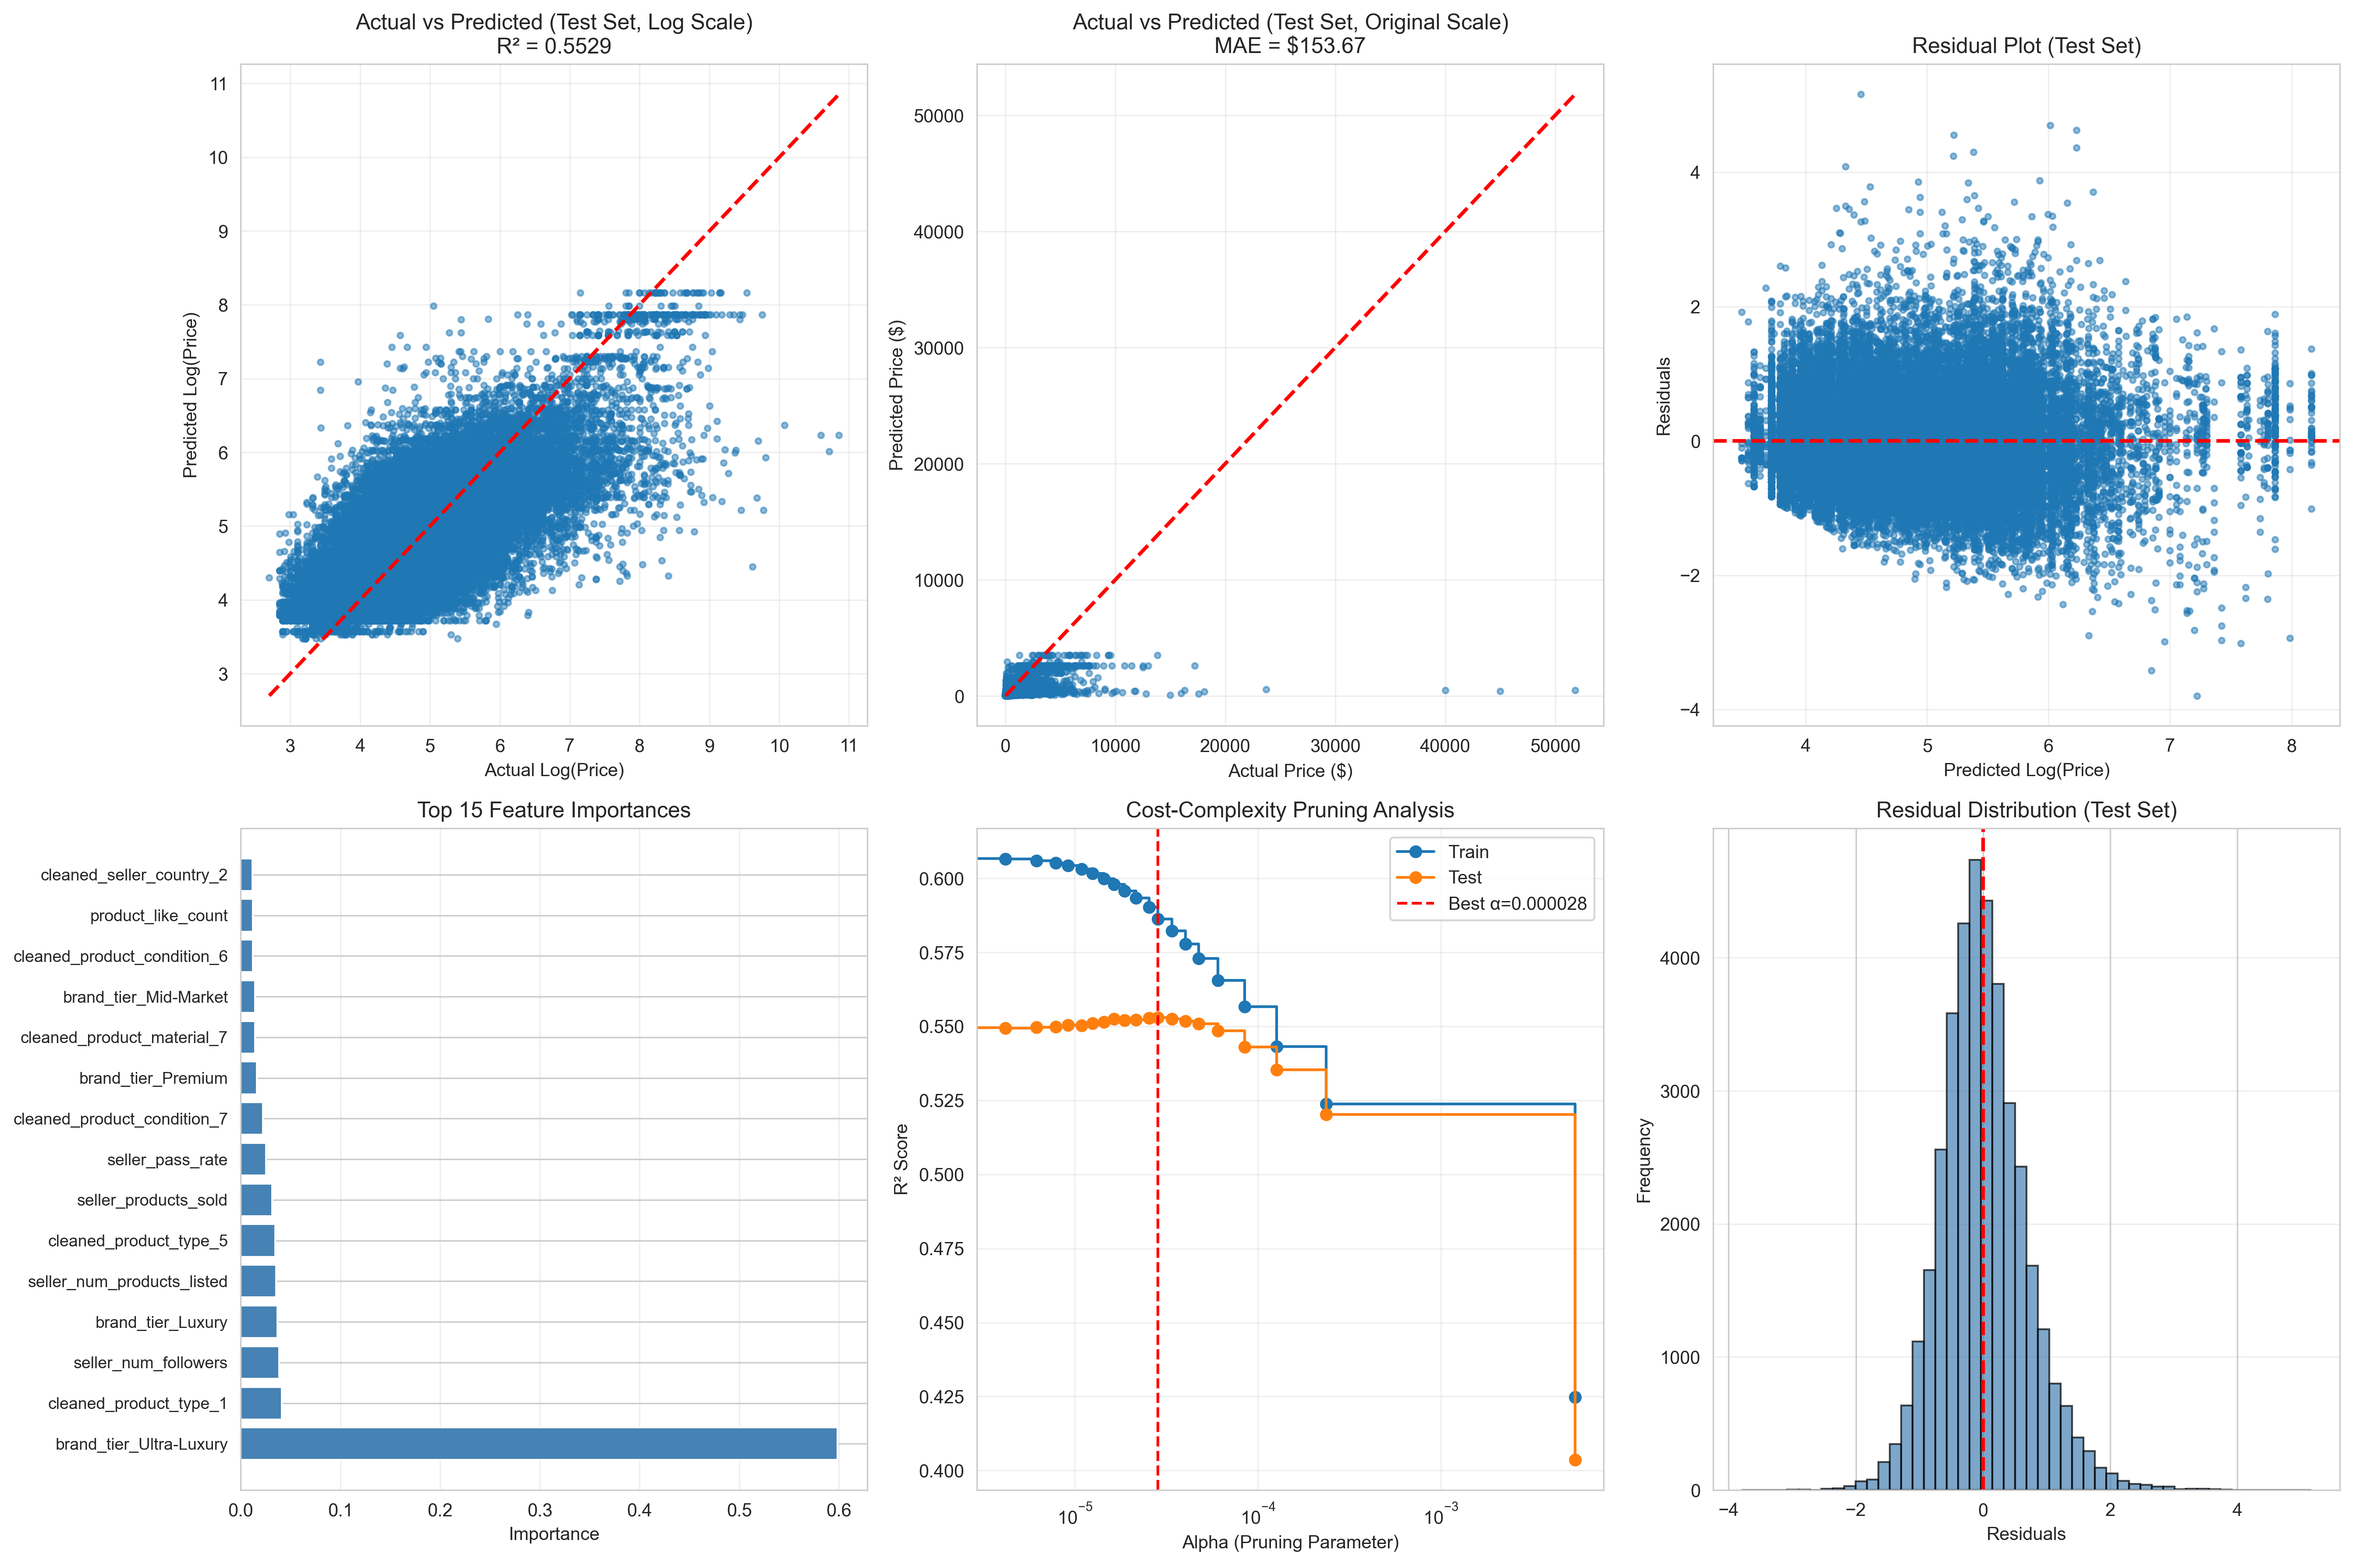
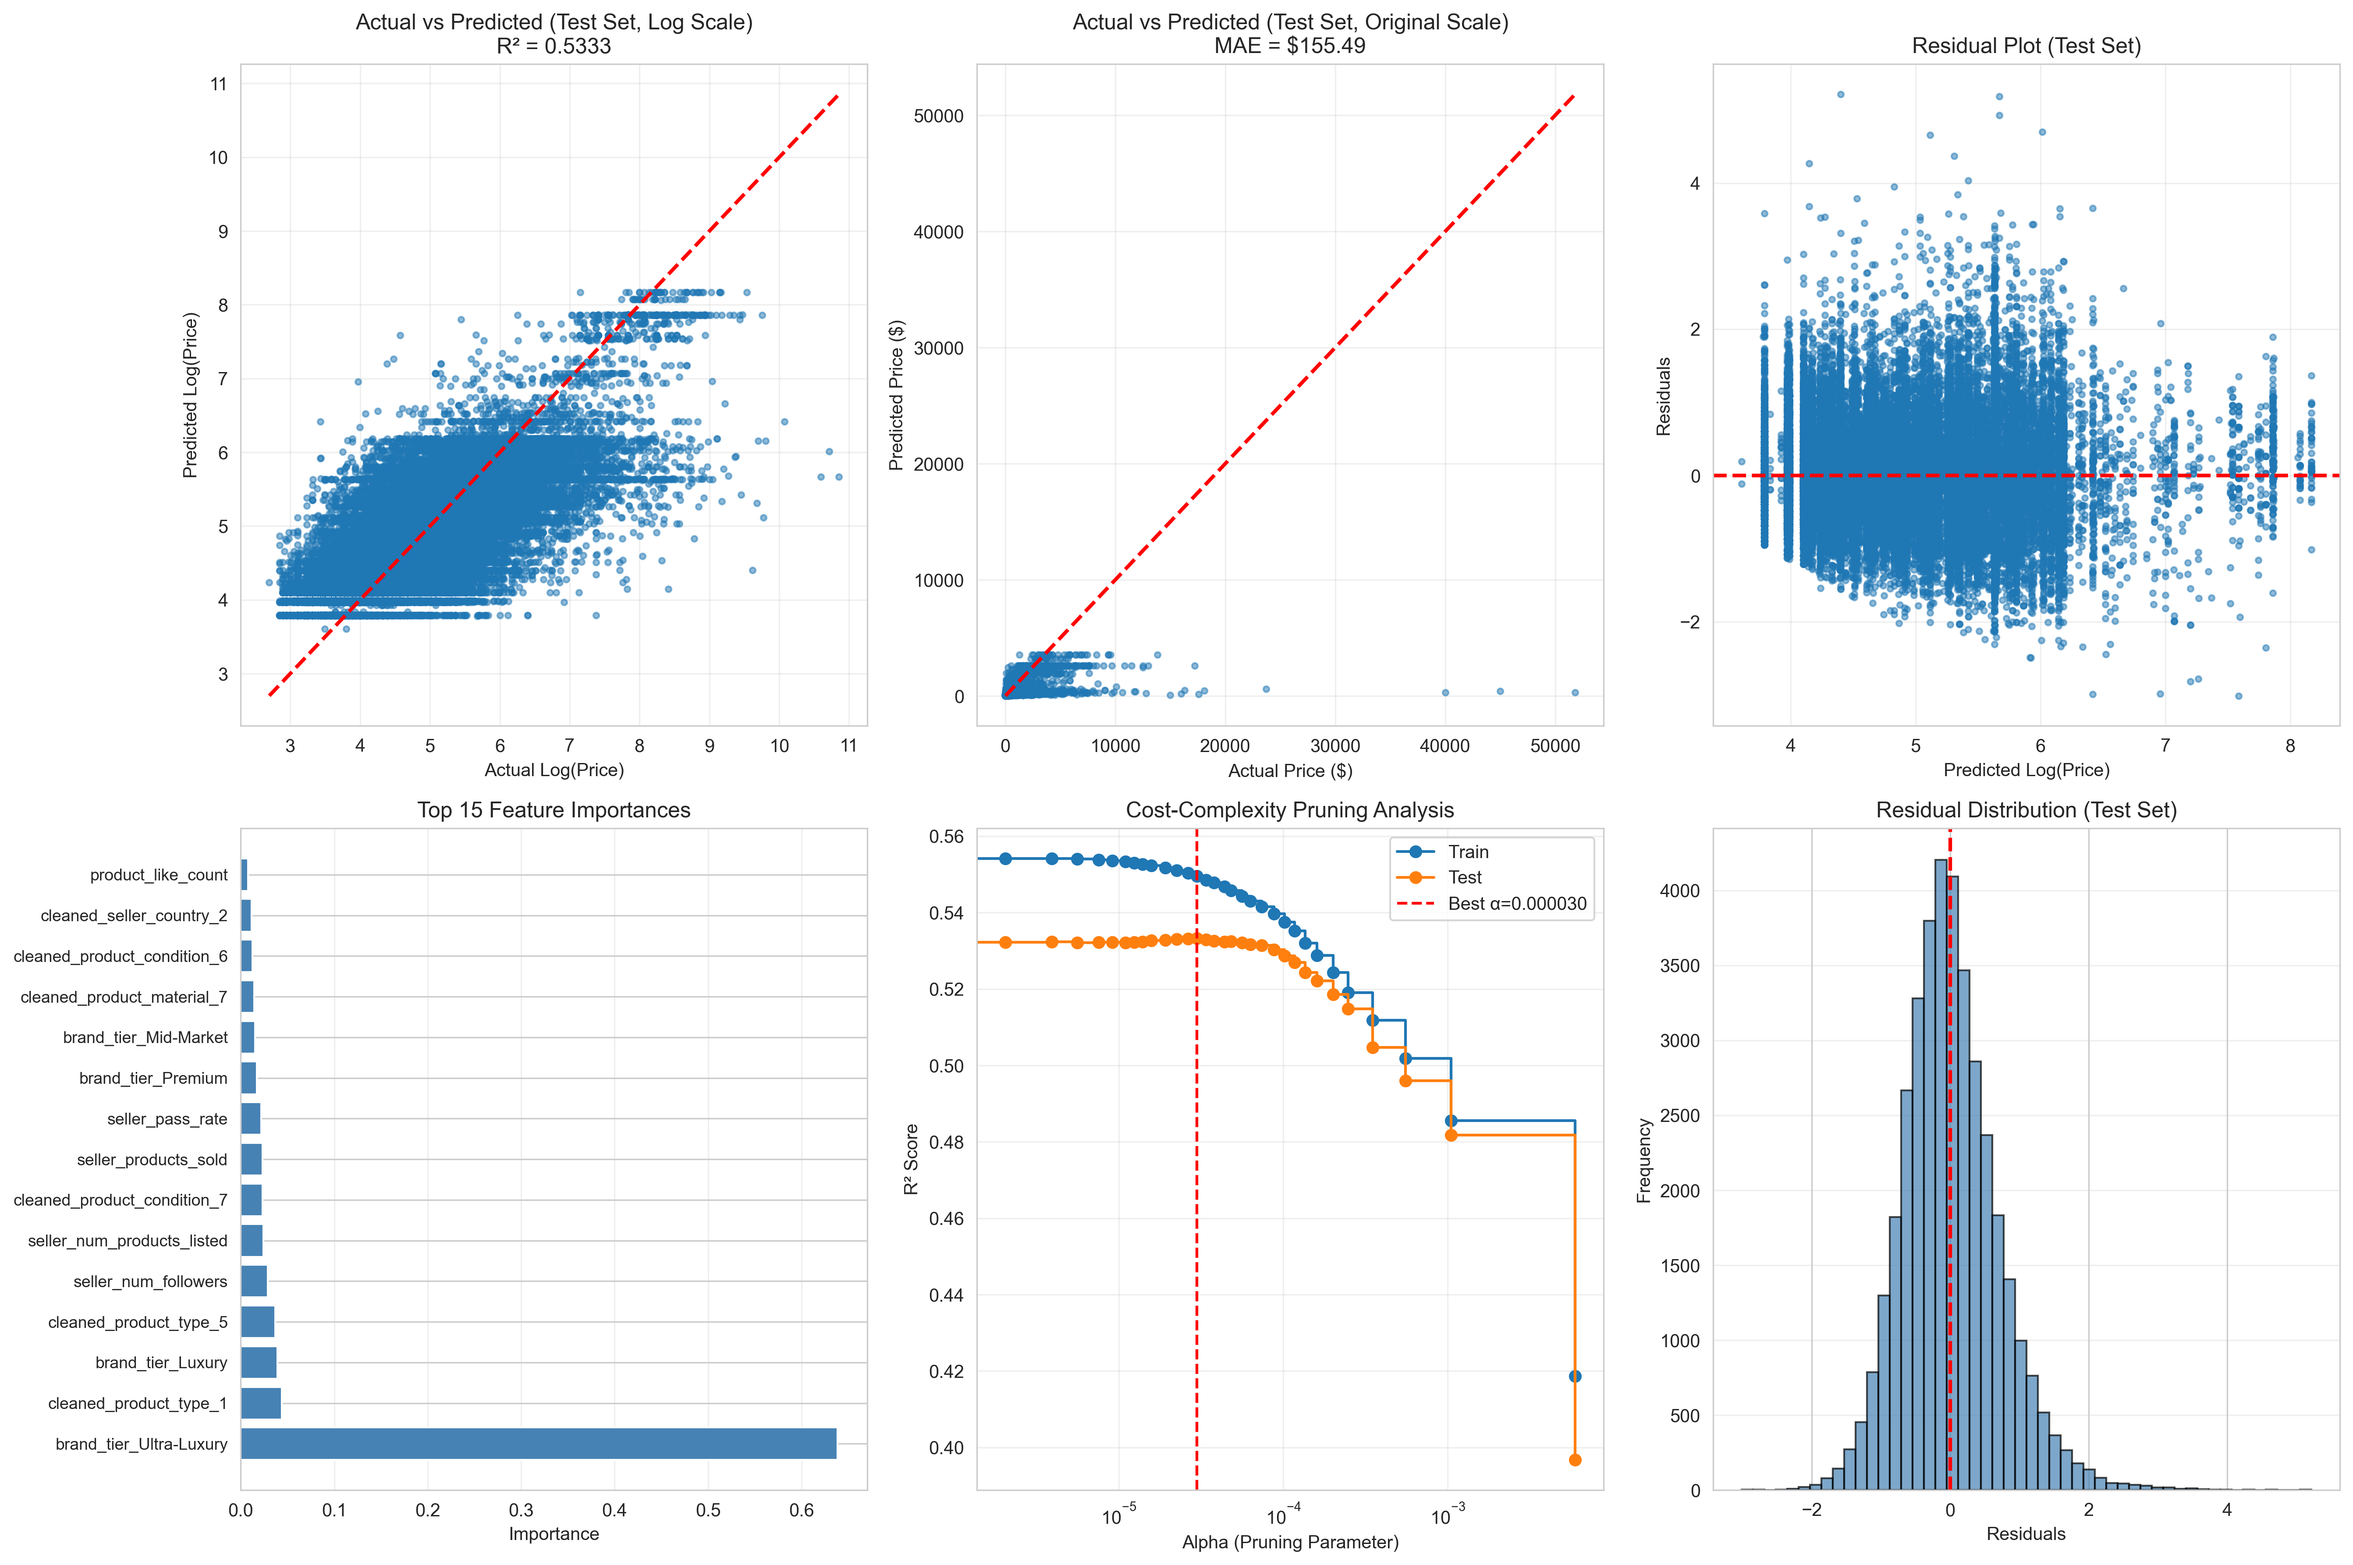
updates to tree.py to improve performance

diff --git a/models/tree.py b/models/tree.py
@@ -49,10 +49,10 @@ print("=" * 70)
 
 # Define parameter grid
 param_grid = {
-    'max_depth': [5, 10, 15, 20, 25, None],
-    'min_samples_split': [2, 10, 20, 50],
-    'min_samples_leaf': [1, 5, 10, 20],
-    'max_features': ['sqrt', 'log2', None]
+    'max_depth': [10, 15, 20, 30, None],
+    'min_samples_split': [2, 5, 10],
+    'min_samples_leaf': [1, 2, 5],
+    'max_features': [None]
 }
 
 print("\nParameter Grid:")
@@ -101,7 +101,7 @@ impurities = path.impurities
 print(f"\nNumber of alpha values to test: {len(ccp_alphas)}")
 
 # Train trees with different alpha values (using a subset for efficiency)
-alpha_subset = ccp_alphas[::max(1, len(ccp_alphas)//20)]  # Test ~20 alphas
+alpha_subset = ccp_alphas[::max(1, len(ccp_alphas)//30)]  # Test ~20 alphas
 train_scores = []
 test_scores = []
 

diff --git a/models/gradient_boosting.py b/models/gradient_boosting.py
@@ -53,13 +53,13 @@ print("=" * 70)
 # Define parameter grid
 # Using a focused grid based on best practices for gradient boosting
 param_grid = {
-    'n_estimators': [100, 200, 300],
-    'learning_rate': [0.01, 0.05, 0.1],
-    'max_depth': [3, 5, 7],
-    'min_samples_split': [10, 20, 50],
-    'min_samples_leaf': [5, 10, 20],
-    'subsample': [0.8, 1.0],
-    'max_features': ['sqrt', 'log2', None]
+    'n_estimators': [200],
+    'learning_rate': [0.05, 0.1],
+    'max_depth': [3, 5],
+    'min_samples_split': [20],
+    'min_samples_leaf': [10],
+    'subsample': [0.8],
+    'max_features': ['sqrt', None]
 }
 
 print("\nParameter Grid:")
